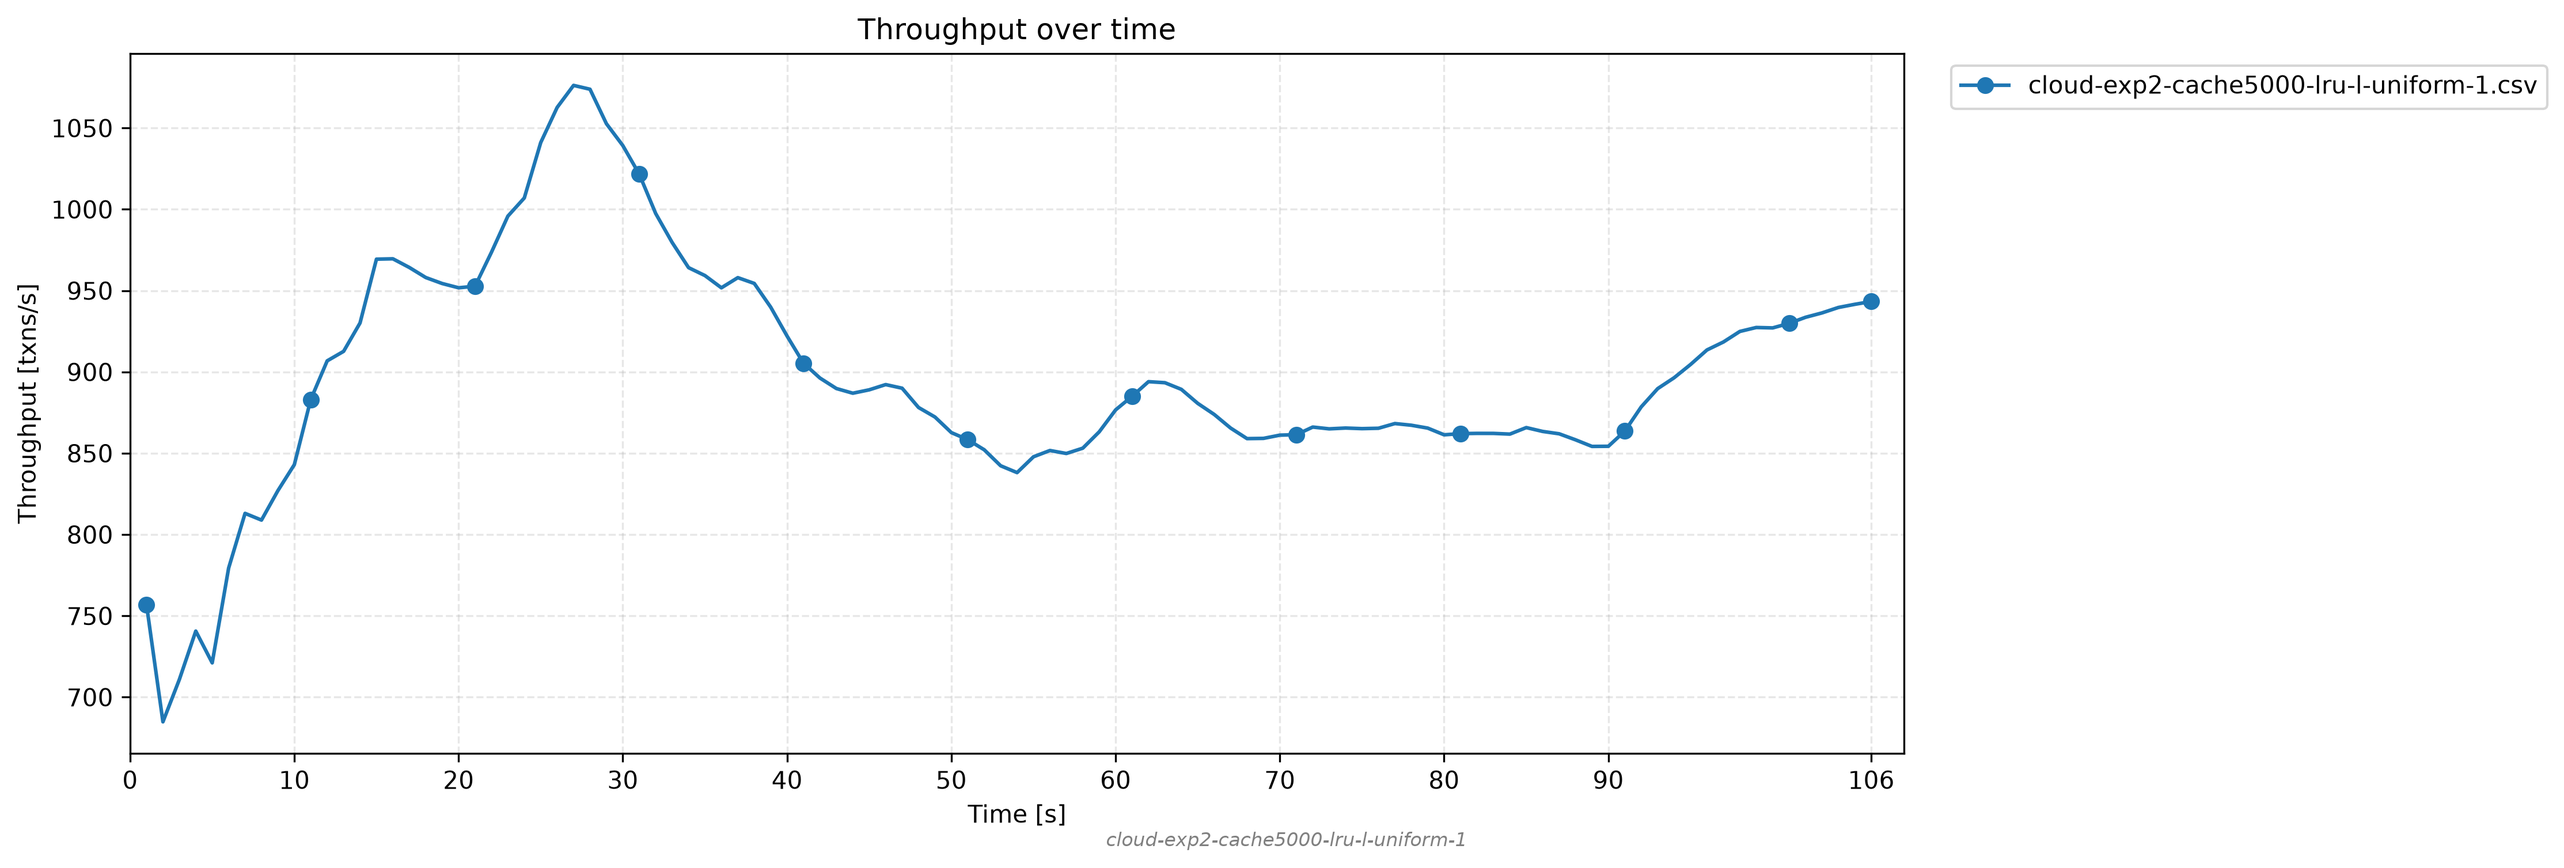
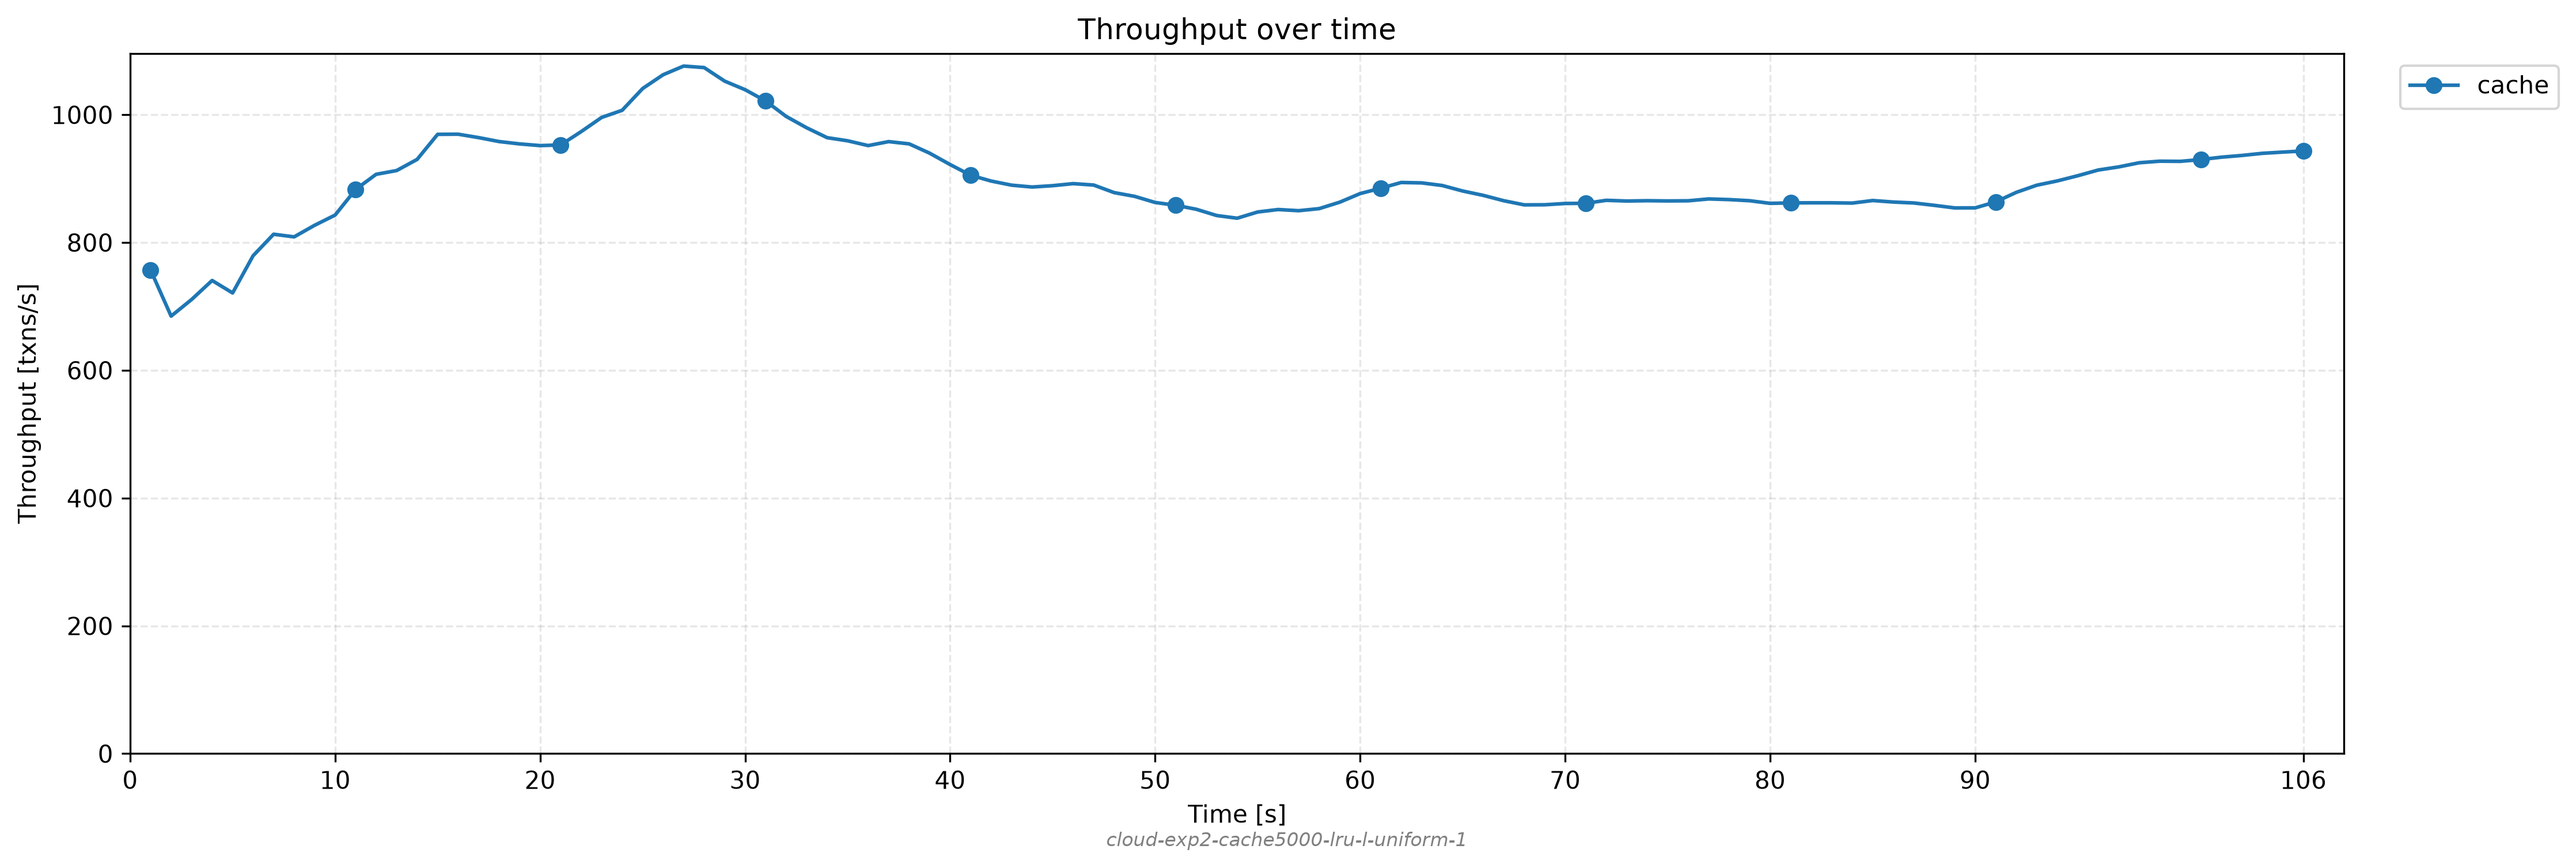
edit plot for exp2

diff --git a/plot/plot-throughput.py b/plot/plot-throughput.py
@@ -65,7 +65,7 @@ def main():
             ticks.pop(-2)
     ax.set_xticks(ticks)
     ax.set_xlim([0, end_tick + 1])
-
+    ax.set_ylim(bottom=0)
     ax.set_xlabel("Time [s]")
     ax.set_ylabel("Throughput [txns/s]")
     ax.set_title("Throughput over time")
